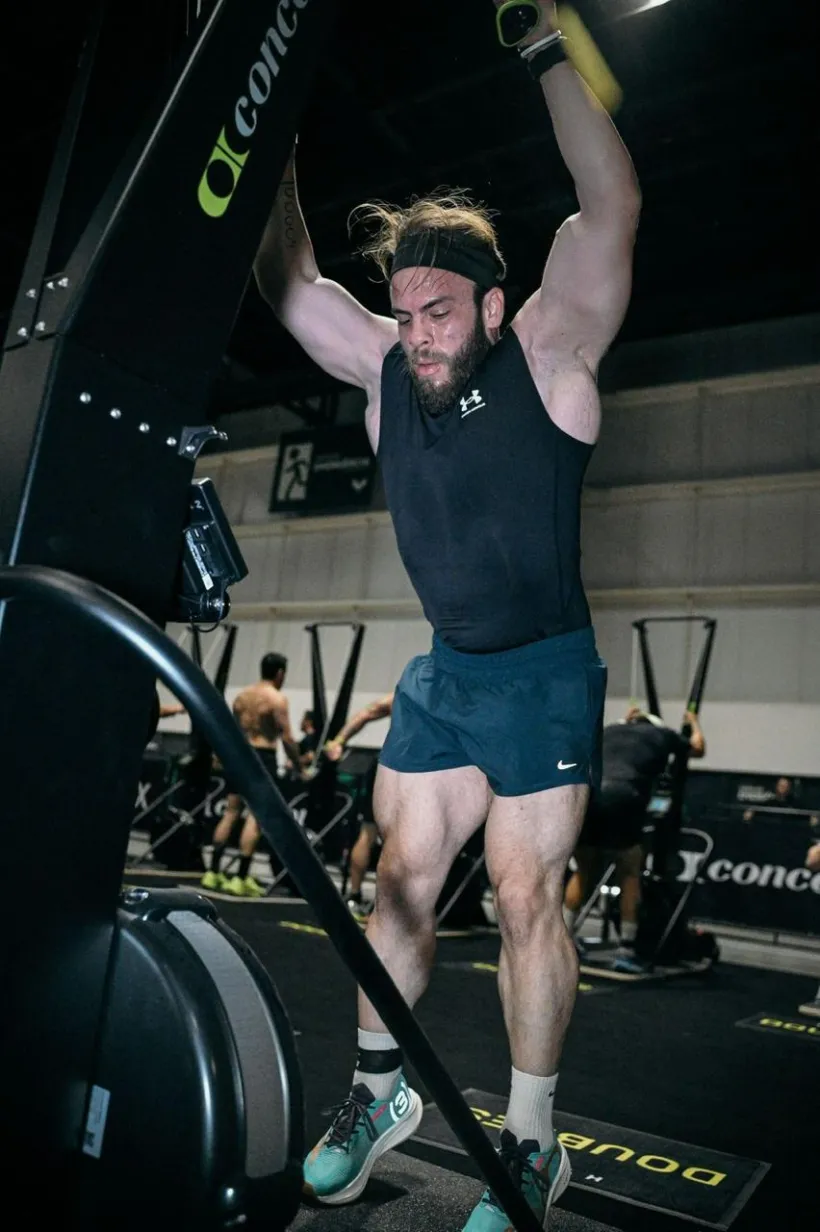
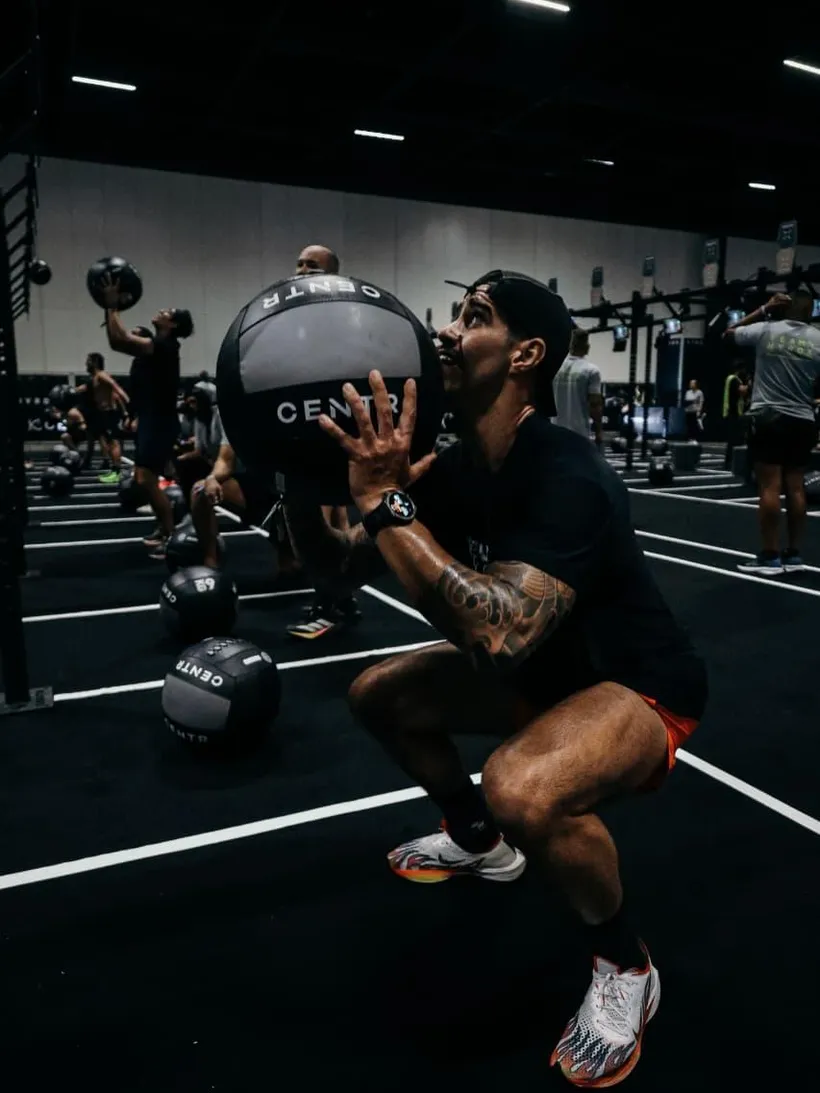
feat: swap gallery SkiErg photo for client-picked wall ball shot

diff --git a/index.html b/index.html
@@ -327,7 +327,7 @@
   <div class="gallery__grid">
     <figure class="gallery__item gallery__item--tall reveal-up"><img src="assets/photos/g1.webp" alt="Dupla no farmers carry com kettlebells" loading="lazy" decoding="async" width="760" height="1013"></figure>
     <figure class="gallery__item reveal-up"><img src="assets/photos/g3.webp" alt="Atleta na corda naval" loading="lazy" decoding="async" width="820" height="1230"></figure>
-    <figure class="gallery__item gallery__item--tall reveal-up"><img src="assets/photos/g2.webp" alt="Atleta no SkiErg" loading="lazy" decoding="async" width="880" height="1320"></figure>
+    <figure class="gallery__item gallery__item--tall reveal-up"><img src="assets/photos/g2.webp" alt="Atleta no wall ball com medicine ball" loading="lazy" decoding="async" width="820" height="1093"></figure>
     <figure class="gallery__item reveal-up"><img src="assets/photos/g4.webp" alt="Atleta feminina em movimento explosivo" loading="lazy" decoding="async" width="820" height="1230"></figure>
   </div>
 </section>